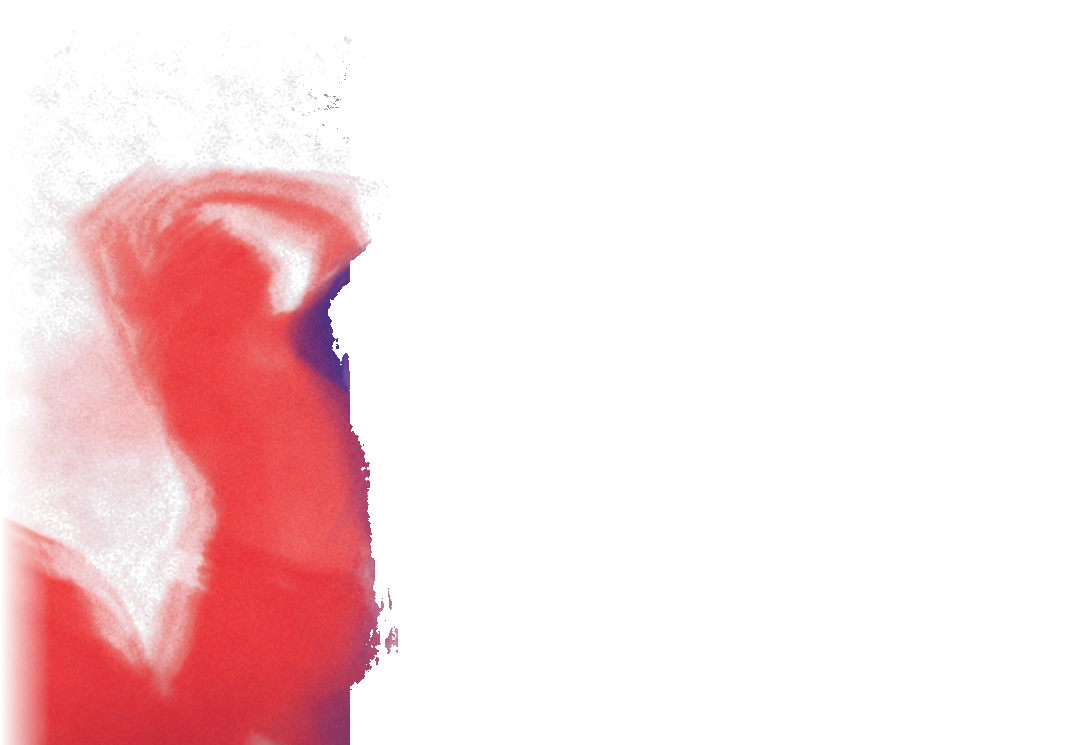
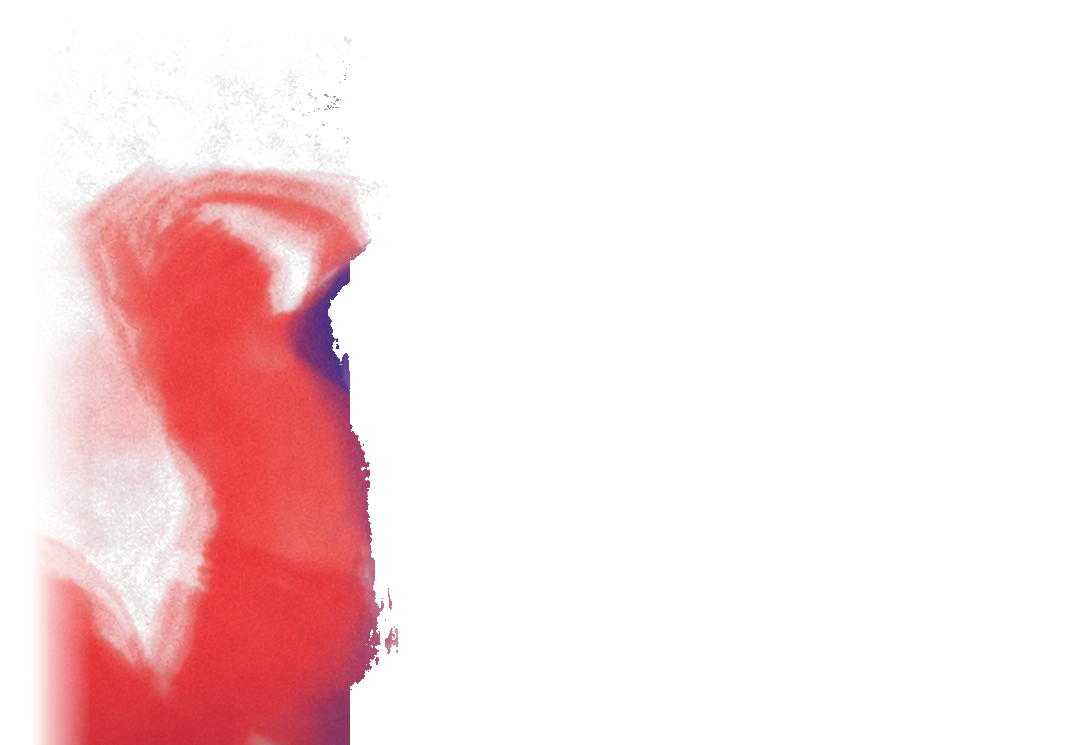
Bailarines con ritmos y direcciones distintas; video en En vivo (el bailando con el publico)

Changed region(s): [[0.0, 0.6792, 0.0917, 1.0], [0.0306, 0.494, 0.0611, 0.6483]]

diff --git a/index.html b/index.html
@@ -39,15 +39,18 @@ em.s{font-family:var(--serif);font-style:italic;font-weight:400;text-transform:n
 .crowd .g1{left:0}
 .crowd .g2{right:0;transform:scaleX(-1)}
 .crowd .dancer{position:absolute;inset:0;background-position:center bottom;background-size:100% 100%;background-repeat:no-repeat;will-change:transform}
-.crowd .d1{background-image:url(img/baila-1.png);transform-origin:18% 100%;animation:dance1 .9s ease-in-out infinite alternate}
-.crowd .d2{background-image:url(img/baila-2.png);transform-origin:42% 100%;animation:dance2 1.15s ease-in-out infinite alternate}
-.crowd .d3{background-image:url(img/baila-3.png);transform-origin:68% 100%;animation:dance3 .8s ease-in-out infinite alternate}
-.crowd .d4{background-image:url(img/baila-4.png);transform-origin:90% 100%;animation:dance4 1.3s ease-in-out infinite alternate}
-.crowd .g2 .d1{animation-delay:-.4s}.crowd .g2 .d2{animation-delay:-.7s}.crowd .g2 .d3{animation-delay:-.2s}.crowd .g2 .d4{animation-delay:-.9s}
-@keyframes dance1{0%{transform:translate(-2%,0) rotate(-3.5deg) scaleY(1)}100%{transform:translate(2.2%,-2.5%) rotate(3deg) scaleY(1.035)}}
-@keyframes dance2{0%{transform:translate(2%,-1%) rotate(3deg) scaleY(1.03)}100%{transform:translate(-2.4%,0) rotate(-3.4deg) scaleY(1)}}
-@keyframes dance3{0%{transform:translate(-1.6%,0) rotate(-2.6deg) scaleY(1)}100%{transform:translate(1.8%,-3%) rotate(2.8deg) scaleY(1.04)}}
-@keyframes dance4{0%{transform:translate(2.2%,-2%) rotate(3.4deg) scaleY(1.03)}100%{transform:translate(-2%,0) rotate(-3deg) scaleY(1)}}
+.crowd .d1{background-image:url(img/baila-1.png);transform-origin:18% 100%;animation:dance1 1.7s ease-in-out infinite alternate}
+.crowd .d2{background-image:url(img/baila-2.png);transform-origin:42% 100%;animation:dance2 .75s ease-in-out infinite alternate}
+.crowd .d3{background-image:url(img/baila-3.png);transform-origin:68% 100%;animation:dance3 1.25s ease-in-out infinite alternate}
+.crowd .d4{background-image:url(img/baila-4.png);transform-origin:90% 100%;animation:dance4 2.1s ease-in-out infinite alternate}
+.crowd .g2 .d1{animation-duration:1.35s;animation-direction:alternate-reverse}.crowd .g2 .d2{animation-duration:1s}.crowd .g2 .d3{animation-duration:.9s;animation-direction:alternate-reverse}.crowd .g2 .d4{animation-duration:1.8s}
+.crowd .g1 .d1{animation-delay:-.3s}.crowd .g1 .d2{animation-delay:-.1s}.crowd .g1 .d3{animation-delay:-.9s}.crowd .g1 .d4{animation-delay:-1.6s}
+.crowd .g2 .d1{animation-delay:-1s}.crowd .g2 .d2{animation-delay:-.5s}.crowd .g2 .d3{animation-delay:-.2s}.crowd .g2 .d4{animation-delay:-.7s}
+/* cada una hacia un lado distinto */
+@keyframes dance1{0%{transform:translate(-9%,0) rotate(-7deg)}100%{transform:translate(2%,-3%) rotate(2deg) scaleY(1.04)}}
+@keyframes dance2{0%{transform:translate(0,2%) rotate(-1.5deg) scaleY(.97)}100%{transform:translate(1.5%,-5%) rotate(2deg) scaleY(1.06)}}
+@keyframes dance3{0%{transform:translate(8%,0) rotate(6deg)}100%{transform:translate(-4%,-2%) rotate(-5deg) scaleY(1.03)}}
+@keyframes dance4{0%{transform:translate(-3%,-3%) rotate(-3deg) scaleY(1.05)}100%{transform:translate(10%,0) rotate(7deg)}}
 
 /* barra */
 .bar{position:fixed;z-index:80;top:0;left:0;right:0;display:flex;justify-content:space-between;align-items:center;padding:16px var(--pad);color:var(--fg)}
@@ -159,7 +162,7 @@ img.src-art{display:none!important}
 
 /* ===== escena (foto en blanco y negro) ===== */
 .live{position:relative;height:120vh;overflow:hidden}
-.live img{position:absolute;left:0;top:-15%;width:100%;height:130%;object-fit:cover;object-position:30% 55%;filter:grayscale(1) contrast(1.1);will-change:transform}
+.live .vid{position:absolute;left:0;top:-15%;width:100%;height:130%;object-fit:cover;object-position:50% 38%;filter:grayscale(1) contrast(1.1);will-change:transform}
 .live::after{content:"";position:absolute;inset:0;background:linear-gradient(180deg,var(--bg),transparent 24%,transparent 66%,var(--bg))}
 .live .cap{position:absolute;z-index:2;left:var(--pad);bottom:12vh;max-width:760px;color:var(--bone)}
 .live .cap h2{font-size:clamp(40px,8vw,130px)}
@@ -231,7 +234,7 @@ img.src-art{display:none!important}
 .lightbox .btn{position:absolute;top:18px;right:18px;color:#f4f1ea;border-color:#f4f1ea;background:transparent}
 @media(max-width:820px){.deck{grid-template-columns:1fr}.deck-stage{height:min(62vh,520px)}}
 </style>
-<link rel="stylesheet" href="experience.css?v=13">
+<link rel="stylesheet" href="experience.css?v=15">
 </head>
 <body>
 <div class="grain" aria-hidden="true"></div>
@@ -363,7 +366,7 @@ img.src-art{display:none!important}
 
 <!-- ===== ESCENA ===== -->
 <section class="live" id="live">
-  <img src="img/solomun-cdj.png" alt="Solomun detrás de los CDJ al aire libre" loading="lazy">
+  <img class="vid" src="img/baila/c/f01.jpg" alt="Solomun bailando con el público" loading="lazy">
   <div class="cap">
     <p class="mono idx" data-n="04">En vivo</p>
     <h2 class="big">Una pista,<br><em class="s">mil emociones</em></h2>
@@ -549,10 +552,11 @@ img.src-art{display:none!important}
   });
 
   // ===== foto en vivo: parallax suave =====
-  gsap.to('.live img',{yPercent:12, ease:'none', scrollTrigger:{trigger:'.live', start:'top bottom', end:'bottom top', scrub:true}});
+  gsap.to('.live .vid',{yPercent:12, ease:'none', scrollTrigger:{trigger:'.live', start:'top bottom', end:'bottom top', scrub:true}});
 })();
 </script>
 <script src="experience.js?v=5"></script>
 <script src="deck.js?v=1"></script>
+<script src="live.js?v=1"></script>
 </body>
 </html>

diff --git a/live.js b/live.js
@@ -1,0 +1,21 @@
+/* "En vivo": video de él bailando con el público (cuadros en vaivén, se pausa fuera de pantalla) */
+(function(){
+  var sec=document.getElementById('live'); if(!sec) return;
+  var poster=sec.querySelector('img.vid'); if(!poster) return;
+  var N=21, frames=[], loaded=0;
+  for(var i=1;i<=N;i++){ var im=new Image(); im.src='img/baila/c/f'+(i<10?'0'+i:i)+'.jpg'; im.onload=function(){ if(++loaded===N) start(); }; frames.push(im); }
+  function start(){
+    var c=document.createElement('canvas'); c.className='vid'; c.width=frames[0].naturalWidth; c.height=frames[0].naturalHeight;
+    c.setAttribute('role','img'); c.setAttribute('aria-label',poster.alt);
+    var x=c.getContext('2d'); x.drawImage(frames[0],0,0);
+    sec.insertBefore(c,poster); poster.style.display='none';
+    var idx=0, dir=1, last=0, vis=true;
+    if('IntersectionObserver' in window) new IntersectionObserver(function(e){ vis=e[0].isIntersecting; }).observe(sec);
+    (function tick(t){
+      requestAnimationFrame(tick);
+      if(!vis||document.hidden||t-last<83) return;
+      last=t; x.drawImage(frames[idx],0,0);
+      idx+=dir; if(idx>=N-1||idx<=0) dir=-dir;
+    })(0);
+  }
+})();
